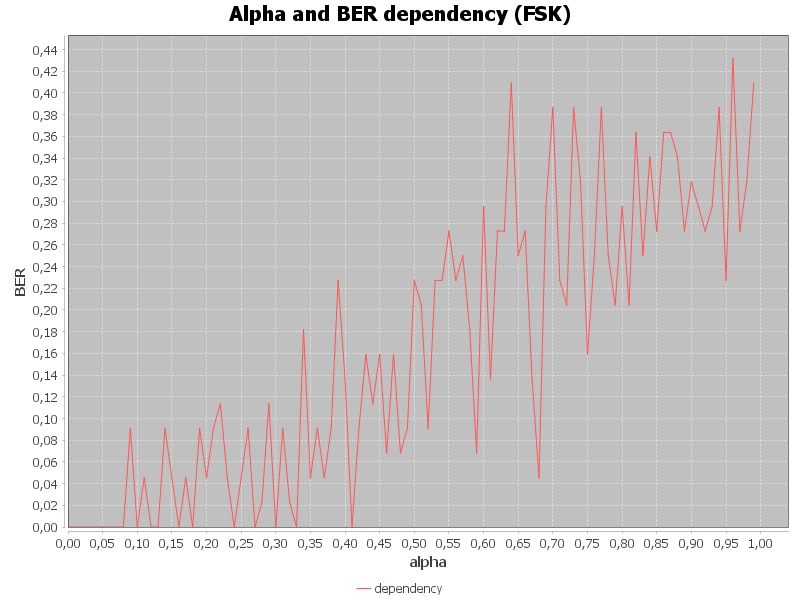
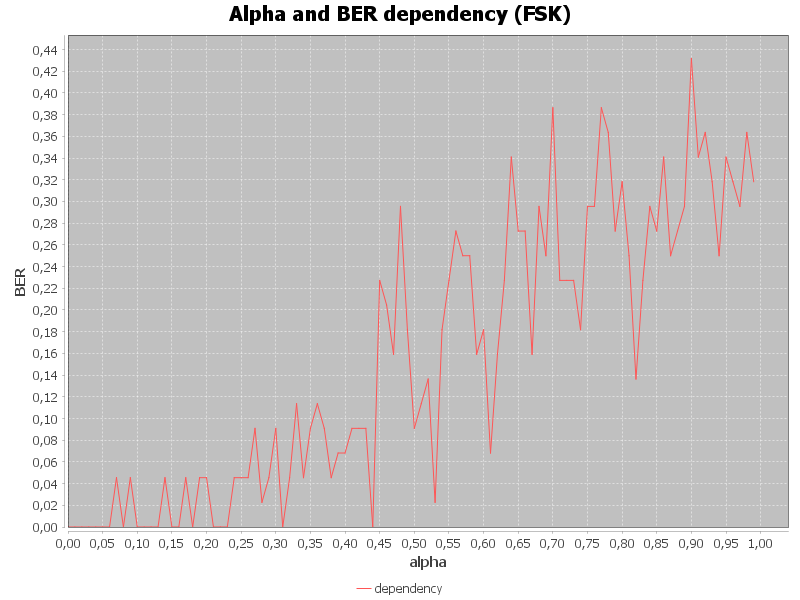
Progress in exercise 4

Changed region(s): [[0.25, 0.12, 0.9375, 0.87], [0.125, 0.72, 0.25, 0.87]]

diff --git a/src/main/java/org/example/Main.java b/src/main/java/org/example/Main.java
@@ -14,9 +14,9 @@ public class Main
     public static void main(String[] args)
     {
 //        zadanie1();
-//        zadanie2();
-//        zadanie3();
-        zadanie4();
+        zadanie2();
+        zadanie3();
+//        zadanie4();
     }
 
     public static void zadanie1()
@@ -59,14 +59,18 @@ public class Main
         int[][] demodulations = new int[3][];
         int[][] decodedData = new int[3][];
 
-        double[] testModulation = TransmissionSystem.modulate(bits, "ASK");
+        int modulationLength = (TransmissionSystem.modulate(bits, "ASK")).length;
+
+        double[][] noise = new double[alpha.length][modulationLength];
+        for(int i = 0; i < alpha.length; i++)
+            noise[i] = TransmissionSystem.generateNoise(modulationLength, alpha[i]);
+
         for (int i = 0; i < alpha.length; i++)
         {
-            double[] noise = TransmissionSystem.generateNoise(testModulation.length, alpha[i]);
             for (int j = 0; j < 3; j++)
             {
                 modulations[j] = TransmissionSystem.modulate(encodedBits, modulationTypes[j]);
-                noisedModulations[j] = TransmissionSystem.addNoiseToSignal(modulations[j], noise);
+                noisedModulations[j] = TransmissionSystem.addNoiseToSignal(modulations[j], noise[i]);
                 demodulations[j] = TransmissionSystem.demodulate(noisedModulations[j], modulationTypes[j]);
                 decodedData[j] = TransmissionSystem.decode(demodulations[j]);
                 BER[j][i] = TransmissionSystem.compareBitVectors(bits, decodedData[j]);
@@ -98,13 +102,17 @@ public class Main
         int[][] decodedData = new int[3][];
 
         int modulationLength = (TransmissionSystem.modulate(bits, "ASK")).length;
+
+        double[][] damp = new double[beta.length][modulationLength];
+        for(int i = 0; i < damp.length; i++)
+            damp[i] = TransmissionSystem.generateDamping(modulationLength, beta[i]);
+
         for (int i = 0; i < beta.length; i++)
         {
-            double[] noise = TransmissionSystem.generateDamping(modulationLength, beta[i]);
             for (int j = 0; j < 3; j++)
             {
                 modulations[j] = TransmissionSystem.modulate(encodedBits, modulationTypes[j]);
-                dampedModulations[j] = TransmissionSystem.addDampToSignal(modulations[j], noise);
+                dampedModulations[j] = TransmissionSystem.addDampToSignal(modulations[j], damp[i]);
                 demodulations[j] = TransmissionSystem.demodulate(dampedModulations[j], modulationTypes[j]);
                 decodedData[j] = TransmissionSystem.decode(demodulations[j]);
                 BER[j][i] = TransmissionSystem.compareBitVectors(bits, decodedData[j]);
@@ -135,8 +143,15 @@ public class Main
         for (int i = 1; i < beta.length; i++)
             beta[i] = beta[i - 1] + betaStep;
 
-        double[][] BER_I_II = new double[3][alpha.length];
-        double[][] BER_II_I = new double[3][alpha.length];
+        int alphaLength = alpha.length;
+        int betaLength = beta.length;
+
+        double[][] BER_I_II_ASK = new double[alphaLength][betaLength];
+        double[][] BER_II_I_ASK = new double[alphaLength][betaLength];
+        double[][] BER_I_II_PSK = new double[alphaLength][betaLength];
+        double[][] BER_II_I_PSK = new double[alphaLength][betaLength];
+        double[][] BER_I_II_FSK = new double[alphaLength][betaLength];
+        double[][] BER_II_I_FSK = new double[alphaLength][betaLength];
         double[][] modulations = new double[3][];
         double[][] noisedModulations = new double[3][];
         double[][] dampedModulations = new double[3][];
@@ -145,36 +160,55 @@ public class Main
 
         int modulationLength = (TransmissionSystem.modulate(bits, "ASK")).length;
 
-        for (int i = 0; i < alpha.length; i++)
+        double[][] noise = new double[alphaLength][modulationLength];
+        double[][] damp = new double[betaLength][modulationLength];
+        for(int i = 0; i < alphaLength; i++)
+            noise[i] = TransmissionSystem.generateDamping(modulationLength, alpha[i]);
+
+        for(int i = 0; i < betaLength; i++)
+            damp[i] = TransmissionSystem.generateDamping(modulationLength, beta[i]);
+
+        for(int i = 0; i < 3; i++)
         {
-            double[] noise = TransmissionSystem.generateDamping(modulationLength, alpha[i]);
-            double[] damp = TransmissionSystem.generateDamping(modulationLength, beta[i]);
-            for (int j = 0; j < 3; j++)
+            for (int j = 0; j < alphaLength; j++)
             {
-                modulations[j] = TransmissionSystem.modulate(encodedBits, modulationTypes[j]);
-                noisedModulations[j] = TransmissionSystem.addNoiseToSignal(modulations[j], noise);
-                dampedModulations[j] = TransmissionSystem.addDampToSignal(noisedModulations[j], damp);
-                demodulations[j] = TransmissionSystem.demodulate(dampedModulations[j], modulationTypes[j]);
-                decodedData[j] = TransmissionSystem.decode(demodulations[j]);
-                BER_I_II[j][i] = TransmissionSystem.compareBitVectors(bits, decodedData[j]);
+                for (int k = 0; k < betaLength; k++)
+                {
+                    modulations[i] = TransmissionSystem.modulate(encodedBits, modulationTypes[i]);
+                    noisedModulations[i] = TransmissionSystem.addNoiseToSignal(modulations[i], noise[j]);
+                    dampedModulations[i] = TransmissionSystem.addDampToSignal(noisedModulations[i], damp[j]);
+                    demodulations[i] = TransmissionSystem.demodulate(dampedModulations[i], modulationTypes[i]);
+                    decodedData[i] = TransmissionSystem.decode(demodulations[i]);
+                    switch(i)
+                    {
+                        case 0 -> BER_I_II_ASK[j][k] = TransmissionSystem.compareBitVectors(bits, decodedData[i]);
+                        case 1 -> BER_I_II_PSK[j][k] = TransmissionSystem.compareBitVectors(bits, decodedData[i]);
+                        case 2 -> BER_I_II_FSK[j][k] = TransmissionSystem.compareBitVectors(bits, decodedData[i]);
+                    }
+                }
             }
         }
 
-        for (int i = 0; i < alpha.length; i++)
+        for(int i = 0; i < 3; i++)
         {
-            double[] noise = TransmissionSystem.generateDamping(modulationLength, alpha[i]);
-            double[] damp = TransmissionSystem.generateDamping(modulationLength, beta[i]);
-            for (int j = 0; j < 3; j++)
+            for (int j = 0; j < alphaLength; j++)
             {
-                modulations[j] = TransmissionSystem.modulate(encodedBits, modulationTypes[j]);
-                noisedModulations[j] = TransmissionSystem.addNoiseToSignal(modulations[j], noise);
-                dampedModulations[j] = TransmissionSystem.addDampToSignal(noisedModulations[j], damp);
-                demodulations[j] = TransmissionSystem.demodulate(dampedModulations[j], modulationTypes[j]);
-                decodedData[j] = TransmissionSystem.decode(demodulations[j]);
-                BER_II_I[j][i] = TransmissionSystem.compareBitVectors(bits, decodedData[j]);
+                for (int k = 0; k < betaLength; k++)
+                {
+                    modulations[i] = TransmissionSystem.modulate(encodedBits, modulationTypes[i]);
+                    noisedModulations[i] = TransmissionSystem.addDampToSignal(modulations[i], noise[j]);
+                    dampedModulations[i] = TransmissionSystem.addNoiseToSignal(noisedModulations[i], damp[j]);
+                    demodulations[i] = TransmissionSystem.demodulate(dampedModulations[i], modulationTypes[i]);
+                    decodedData[i] = TransmissionSystem.decode(demodulations[i]);
+                    switch(i)
+                    {
+                        case 0 -> BER_I_II_ASK[j][k] = TransmissionSystem.compareBitVectors(bits, decodedData[i]);
+                        case 1 -> BER_I_II_PSK[j][k] = TransmissionSystem.compareBitVectors(bits, decodedData[i]);
+                        case 2 -> BER_I_II_FSK[j][k] = TransmissionSystem.compareBitVectors(bits, decodedData[i]);
+                    }
+                }
             }
         }
-
     }
 
     public static void printBits(int[] data)
@@ -184,26 +218,5 @@ public class Main
 
         System.out.println();
         System.out.println();
-    }
-
-    public static void printData(double[] data)
-    {
-        for(double i : data)
-            System.out.print(i + " ");
-
-        System.out.println();
-        System.out.println();
-    }
-
-    public static int[] stringToBits(String input)
-    {
-        int[] bitArray = new int[input.length() * 8];
-
-        int index = 0;
-        for (char c : input.toCharArray())
-            for (int i = 7; i >= 0; i--)
-                bitArray[index++] = ((int) c >> i) & 1;
-
-        return bitArray;
     }
 }

diff --git a/src/main/java/org/example/utils/Modulations.java b/src/main/java/org/example/utils/Modulations.java
@@ -5,8 +5,8 @@ import static java.lang.Math.sin;
 
 public class Modulations
 {
-    public static int Tc = 4;
-    public static int fs = 1500;
+    public static int Tc = 3;
+    public static int fs = 2000;
     public static int N = Tc * fs;
     public static int[] b;
     public static int M;
